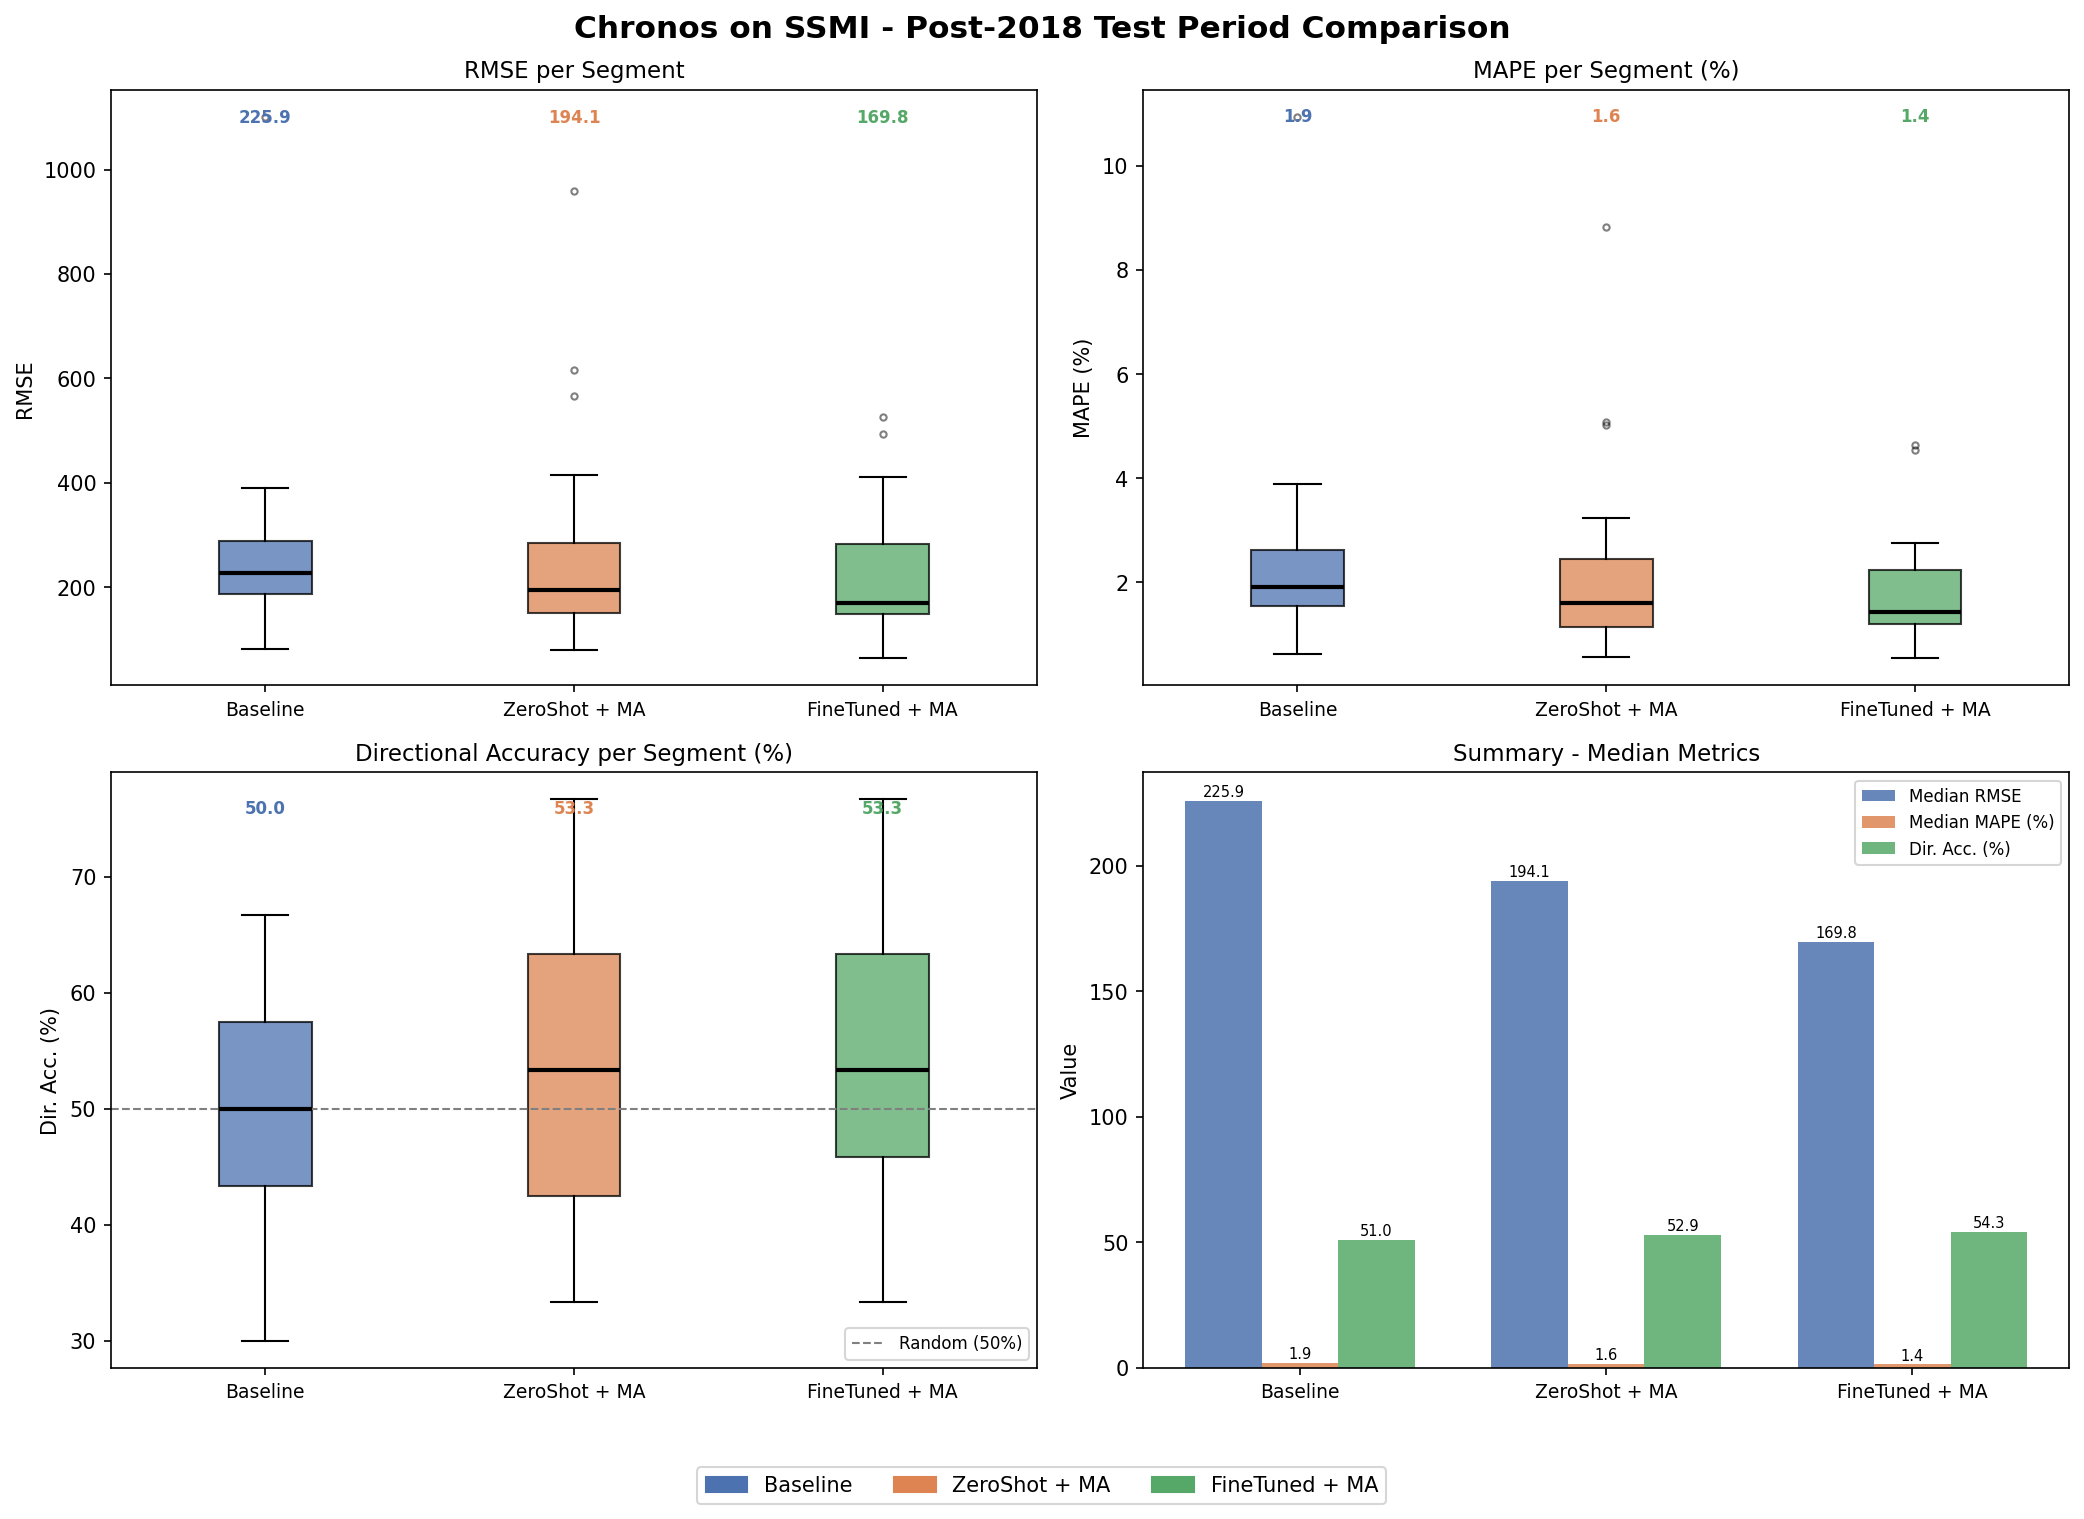
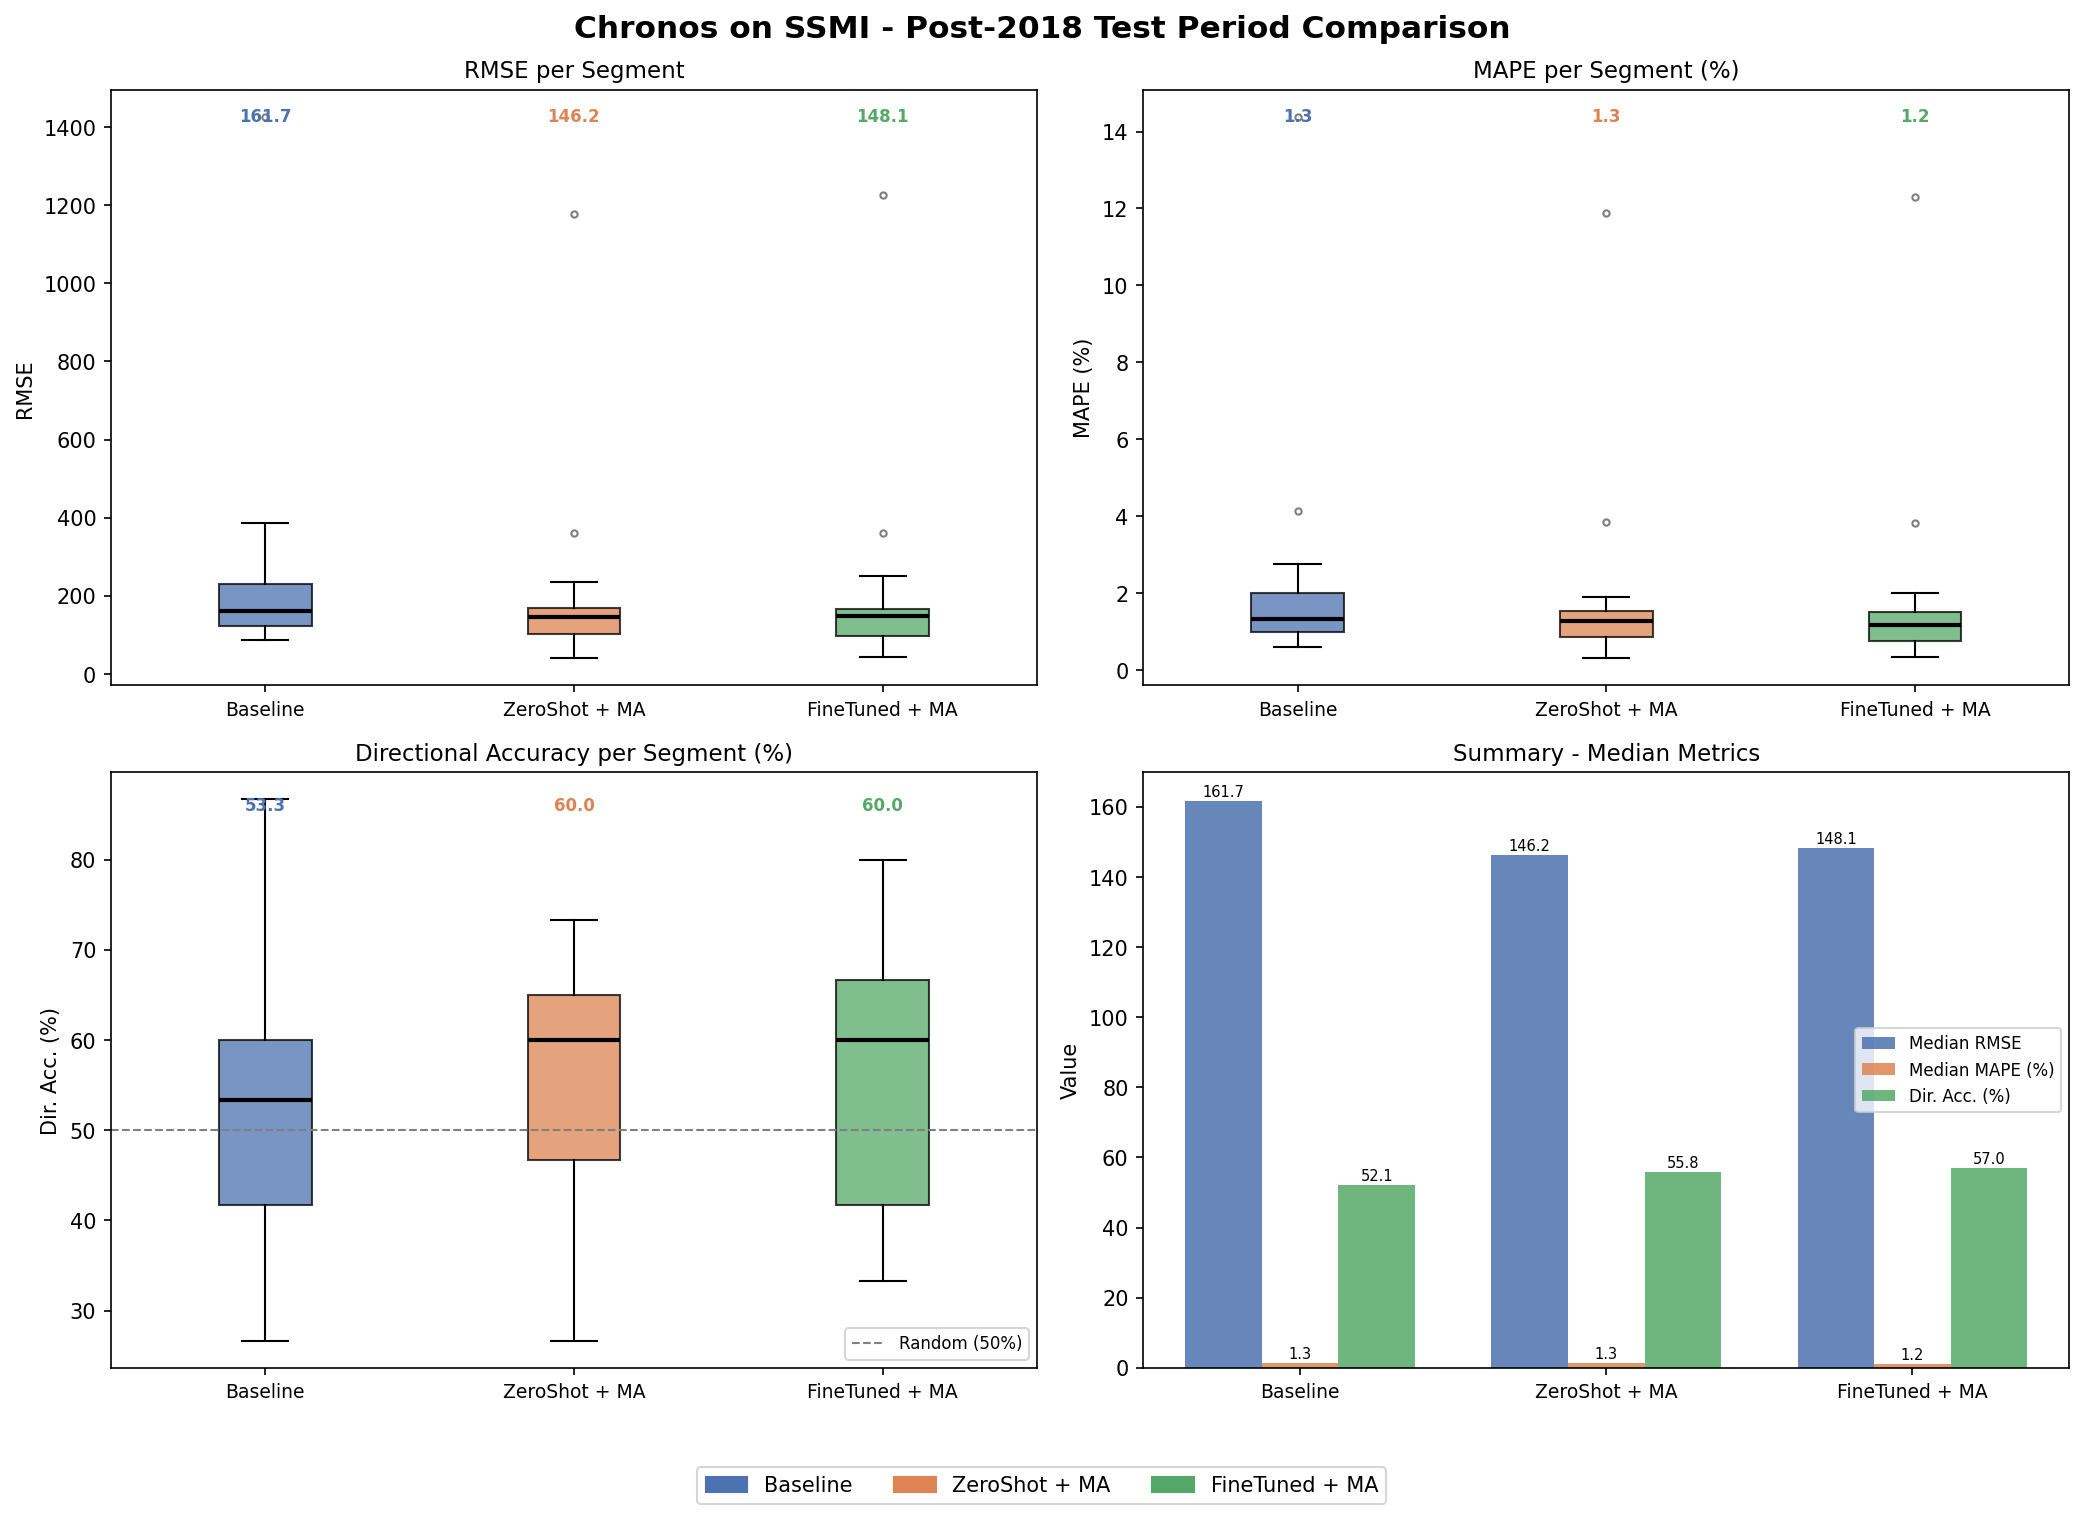
Update All Compare

diff --git a/Chronos/compare_all.py b/Chronos/compare_all.py
@@ -22,10 +22,10 @@ BASE_MODEL_ID  = "amazon/chronos-t5-base"
 CKPT_LOW       = SCRIPT_DIR / "chronos_ssmi_low_v1.pt"
 CKPT_HIGH      = SCRIPT_DIR / "chronos_ssmi_high_v1.pt"
 TEST_START     = "2018-01-01"
-CONTEXT_WINDOW = 120
-HORIZON        = 30
+CONTEXT_WINDOW = 180
+HORIZON        = 15
 STEP           = 30
-MA_WINDOW      = 30
+MA_WINDOW      = 60
 
 COLORS = {
     "Baseline":       "#4C72B0",
